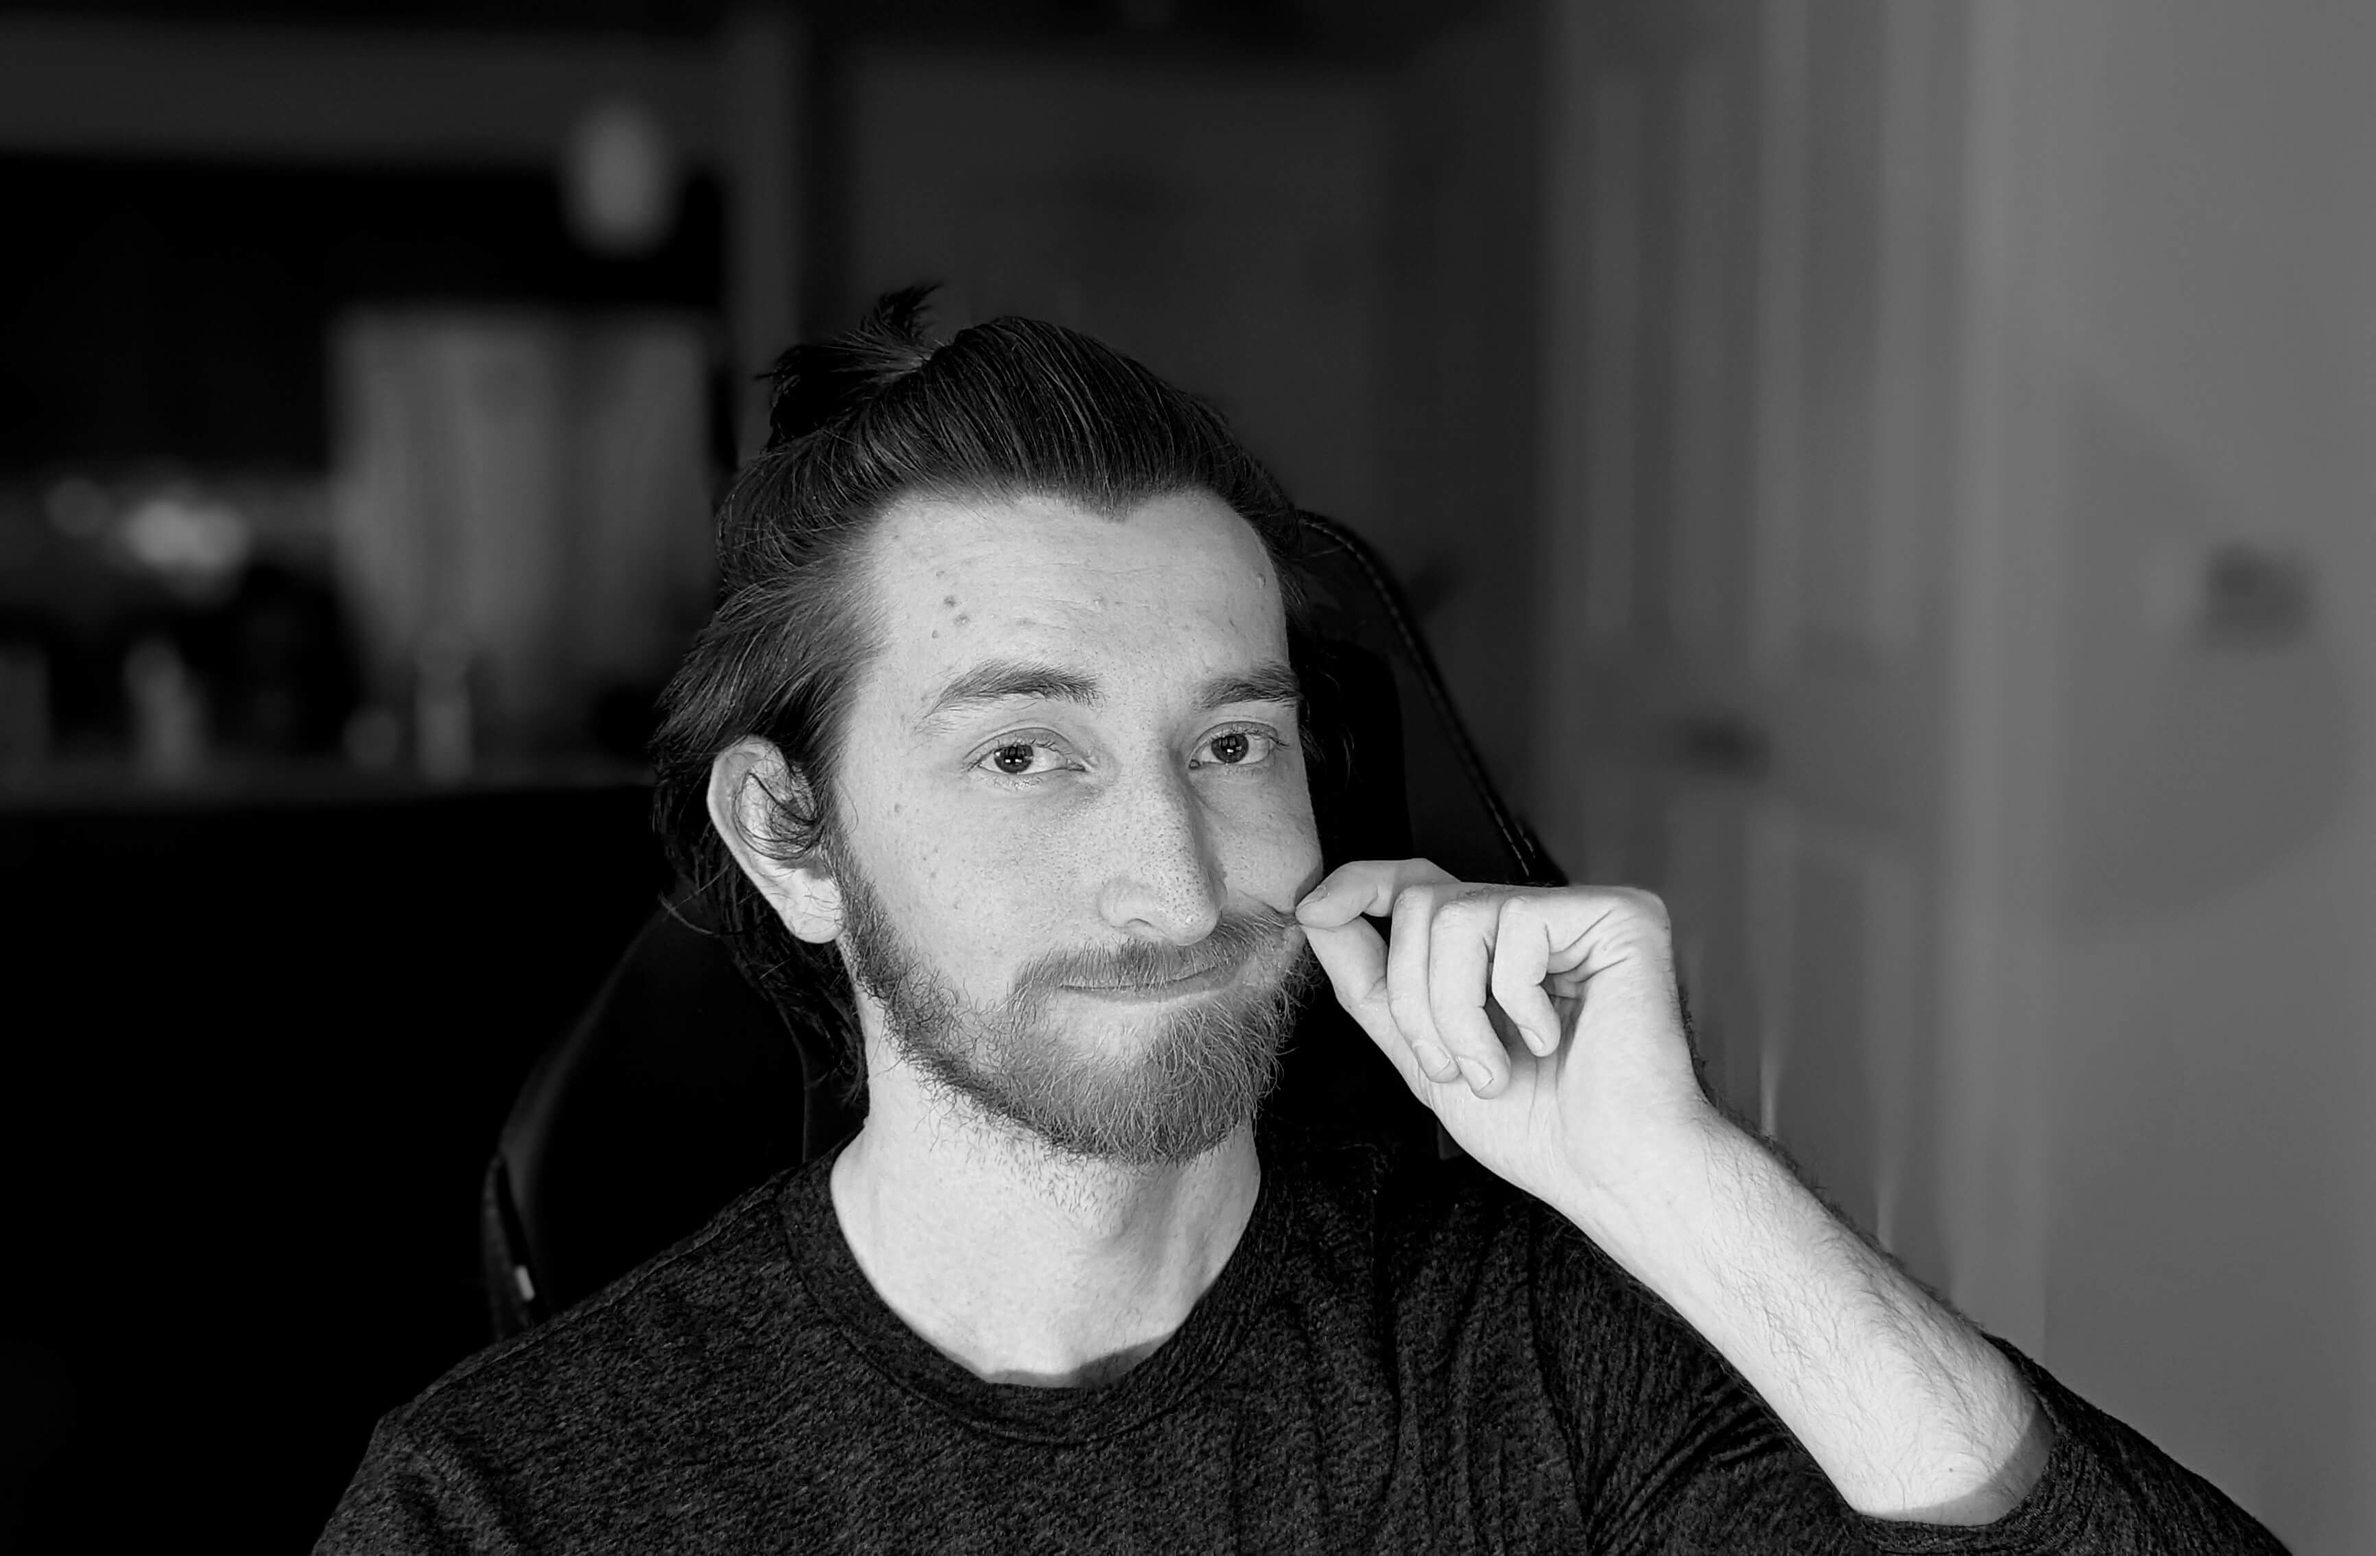
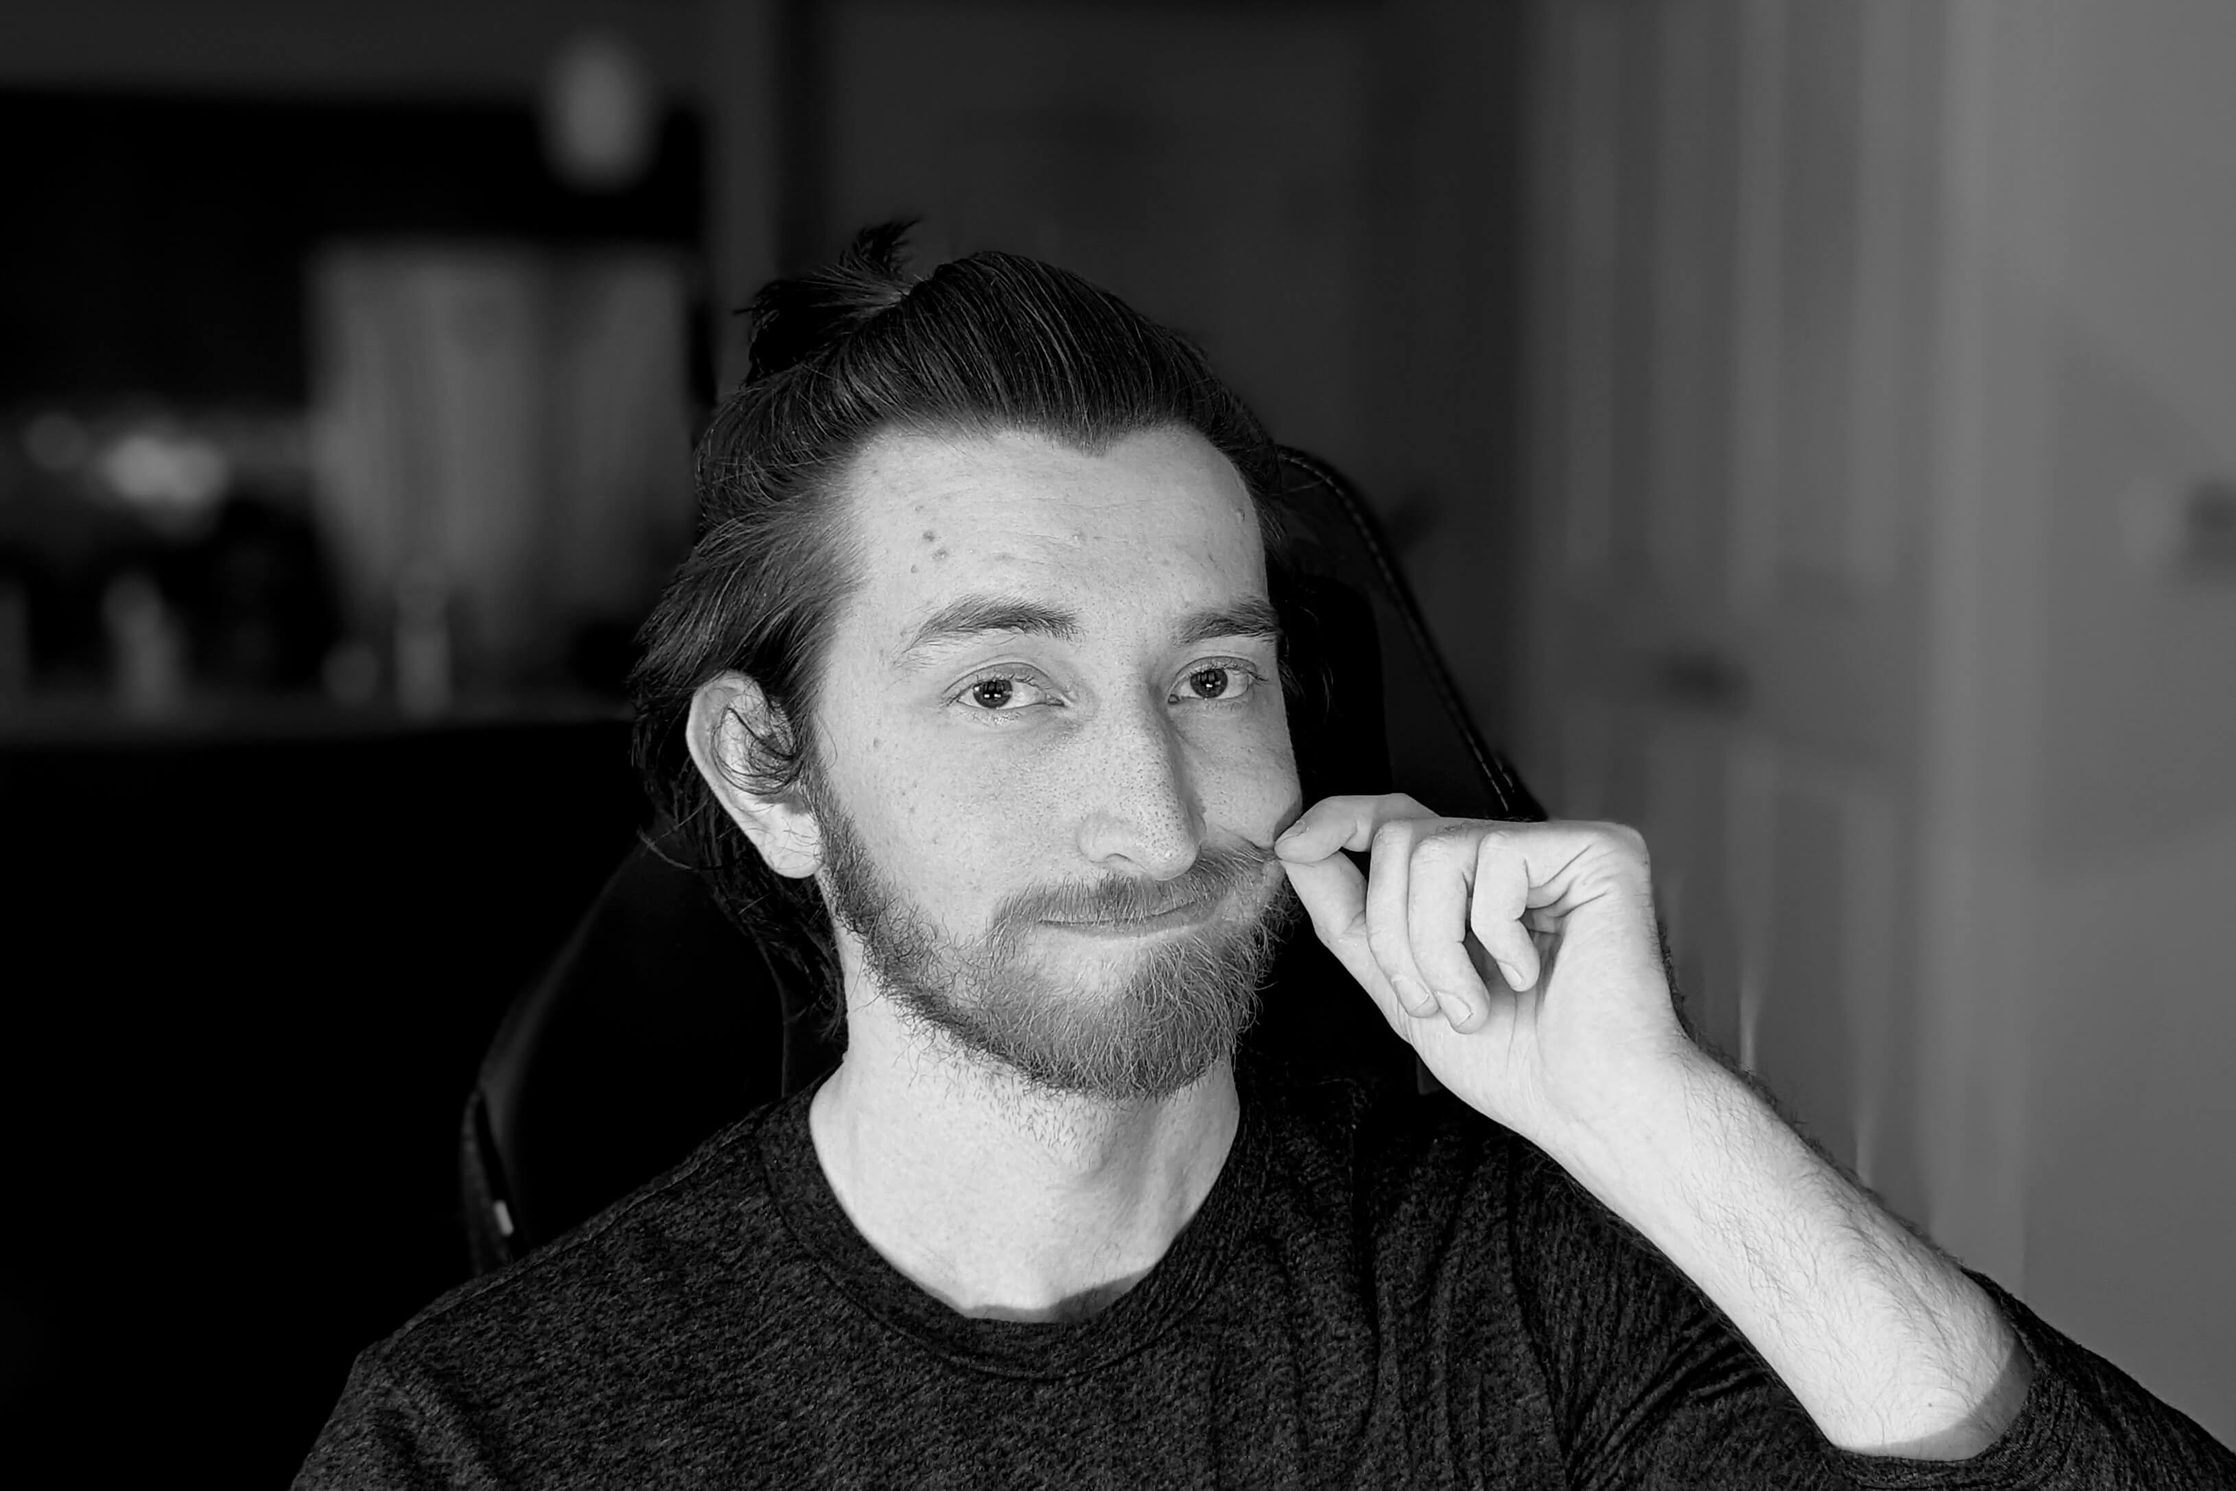
add image and change homepage image

diff --git a/src/views/PhotosView/PhotosView.js b/src/views/PhotosView/PhotosView.js
@@ -36,7 +36,7 @@ const PhotosView = () => {
                             fontWeight: 700,
                         }}
                     >
-                        These are photos for search indexing. You're likely looking for the homepage.<br/>
+                        These are photos for search indexing. You're likely looking for the homepage.<br/><br/>
                         Tap the photos on mobile for fun facts though!
                     </Typography>
                     <Link href='/' passHref>

diff --git a/src/views/PhotosView/components/Main/Main.js b/src/views/PhotosView/components/Main/Main.js
@@ -9,6 +9,12 @@ import { useTheme } from '@mui/material/styles'
 const leftGrid = [
     {
         image: '/photos/nikolay_feldman.jpg',
+        title: 'Nikolay Feldman',
+        description: `He uses this photo everywhere. It's not even good...`,
+        alt: 'Photo of Nikolay Feldman'
+    },
+    {
+        image: '/photos/nikolay_feldman_recent.jpg',
         title: 'Nikolay looking all cool',
         description: 'All the chicken is burnt though.',
     },
